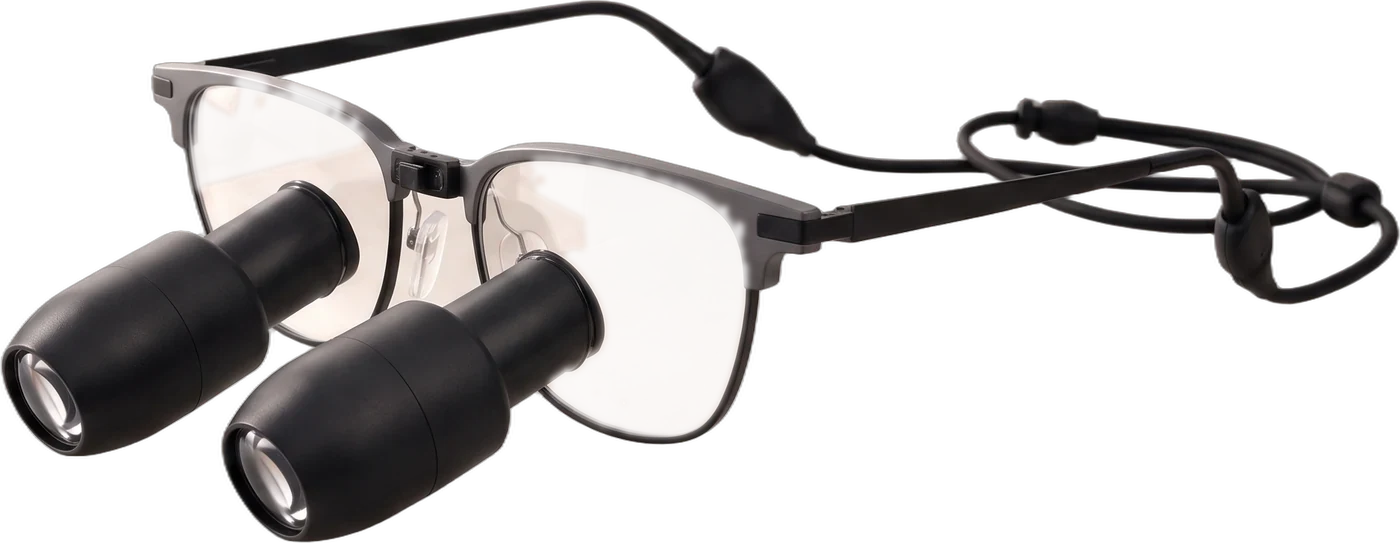
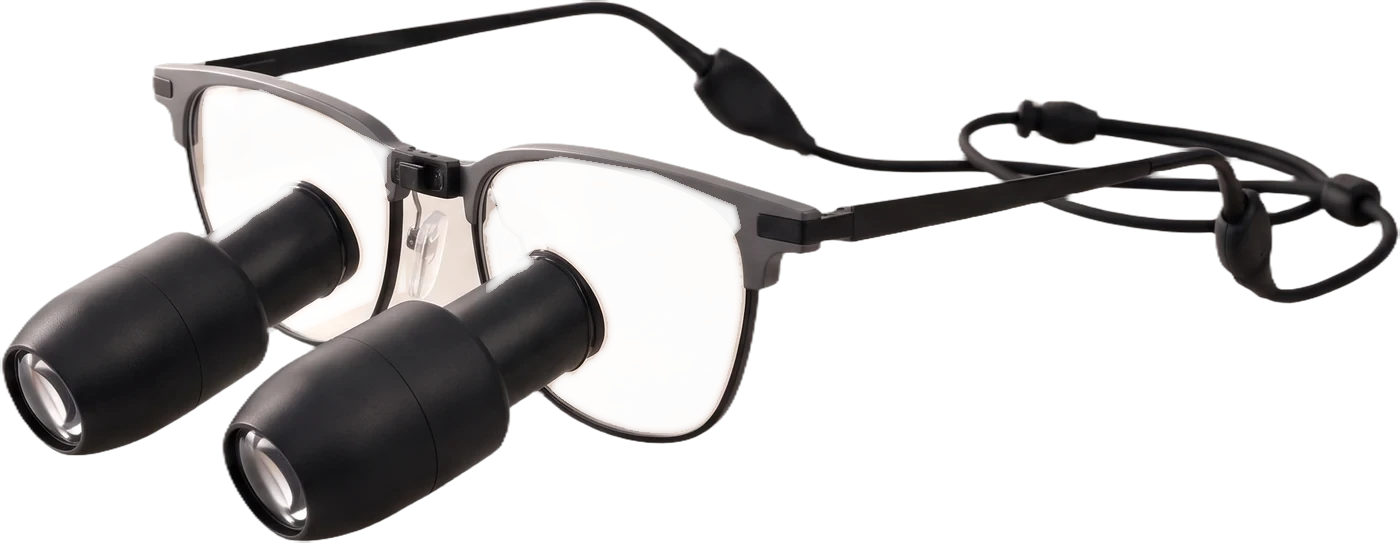
Recut Medusa and Kepler with traced, see-through lenses
Medusa now uses the full front studio shot. Lenses are cleared only inside
hand-traced rims, so the metal stays crisp and the barrels, housings and
temple arms stay solid. The pairs sit higher so they cross the model name.

diff --git a/components/home/MobileHomeExperience.tsx b/components/home/MobileHomeExperience.tsx
@@ -63,7 +63,7 @@ function StageCarousel() {
             <span className="m2-kicker absolute inset-x-0 top-1 text-center">{model.category}</span>
             <span aria-hidden="true" className={`m2-giant absolute inset-x-0 top-8 text-center ${index === 0 ? 'm2-rise' : ''}`}>{model.name}</span>
             <span
-              className={`absolute inset-x-[5%] top-[118px] h-[180px] ${index === 0 ? 'm2-drift' : ''}`}
+              className={`absolute inset-x-[4%] top-[92px] h-[196px] ${index === 0 ? 'm2-drift' : ''}`}
               style={{ transform: 'rotate(-6deg)' }}
             >
               <Image src={model.cutout} alt="" fill priority={index === 0} sizes="(max-width: 767px) 90vw, 1px" className="object-contain" />

diff --git a/components/mobile/MobileProductExperience.tsx b/components/mobile/MobileProductExperience.tsx
@@ -161,7 +161,7 @@ export default function MobileProductExperience({
             {config.shortName}
           </p>
         </div>
-        <div className="m2-drift absolute inset-x-[2%] top-[196px] z-[2] h-[216px]" style={{ transform: 'rotate(-6deg)' }}>
+        <div className="m2-drift absolute inset-x-[2%] top-[170px] z-[2] h-[230px]" style={{ transform: 'rotate(-6deg)' }}>
           <Image
             src={model?.cutout ?? config.heroImages[0]}
             alt={`${config.shortName} surgical loupes`}
